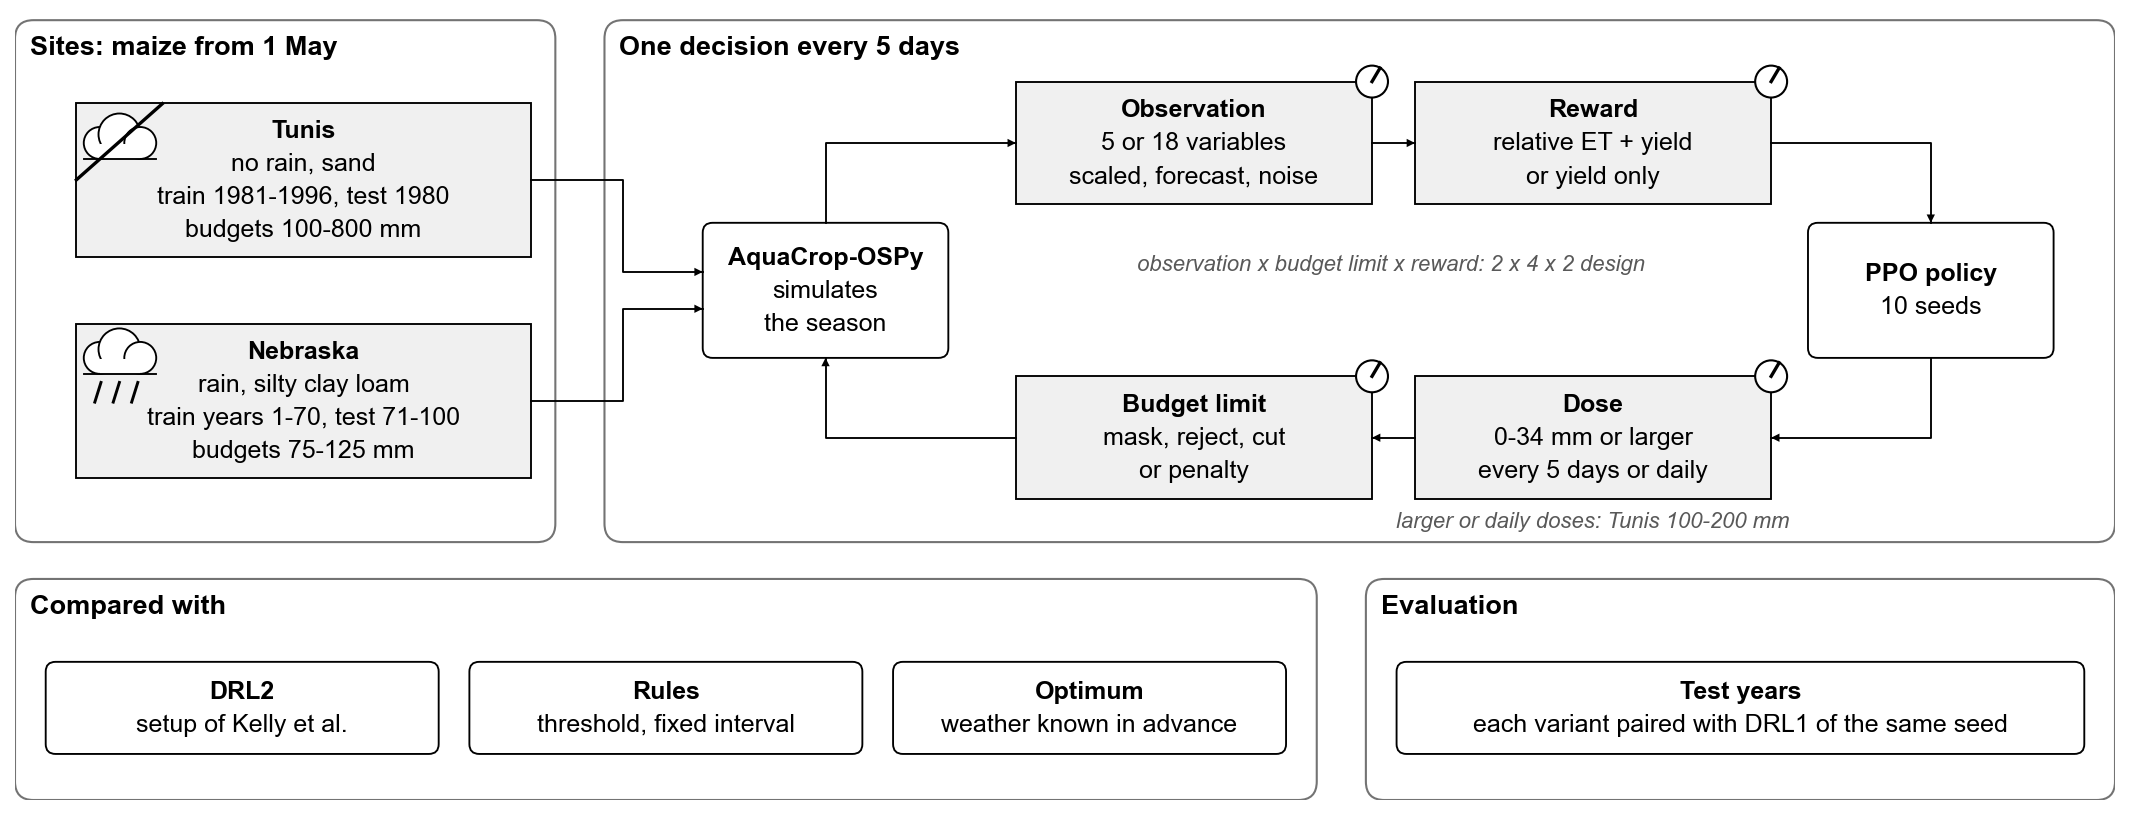
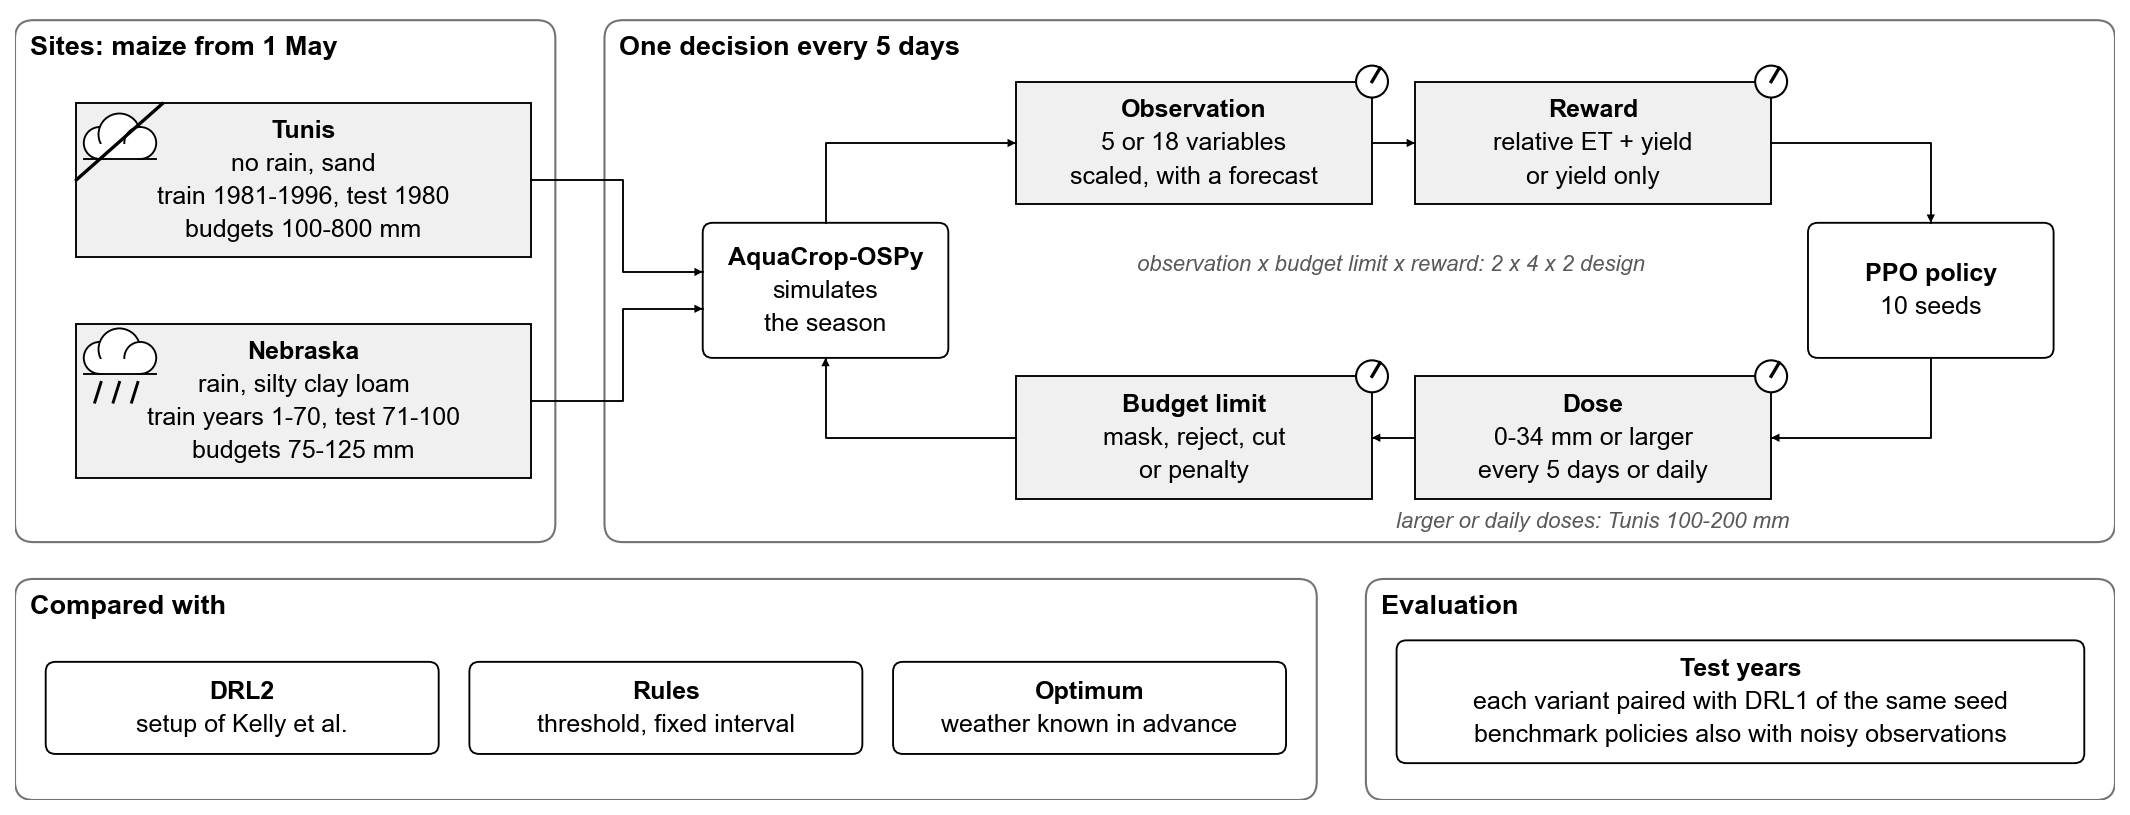
Overview: noisy observations belong to the evaluation, not to the observation choice
The robustness experiment tests trained benchmark policies with noise on two observed variables;
no agent is trained with noise, so it has no dial.

Changed region(s): [[0.6507, 0.7669, 0.9915, 0.9509], [0.4958, 0.184, 0.6197, 0.2454]]

diff --git a/src/ditrl/report/overview.py b/src/ditrl/report/overview.py
@@ -102,7 +102,7 @@ def build(ctx: Context) -> Section:
         env = _box(ax, 6.6, 4.15, 2.0, 1.1, "AquaCrop-OSPy", ["simulates", "the season"])
         agent = _box(ax, 15.6, 4.15, 2.0, 1.1, "PPO policy", ["10 seeds"])
         obs = _knob(ax, 9.6, 5.35, 2.9, 1.0, "Observation",
-                    ["5 or 18 variables", "scaled, forecast, noise"])
+                    ["5 or 18 variables", "scaled, with a forecast"])
         reward = _knob(ax, 12.85, 5.35, 2.9, 1.0, "Reward", ["relative ET + yield", "or yield only"])
         action = _knob(ax, 12.85, 2.95, 2.9, 1.0, "Dose", ["0-34 mm or larger", "every 5 days or daily"])
         budget = _knob(ax, 9.6, 2.95, 2.9, 1.0, "Budget limit", ["mask, reject, cut", "or penalty"])
@@ -123,7 +123,8 @@ def build(ctx: Context) -> Section:
         _box(ax, 5.3, 0.75, 3.2, 0.75, "Rules", ["threshold, fixed interval"])
         _box(ax, 8.75, 0.75, 3.2, 0.75, "Optimum", ["weather known in advance"])
         _region(ax, 11.0, 0, 17.1, 1.8, "Evaluation")
-        _box(ax, 14.05, 0.75, 5.6, 0.75, "Test years", ["each variant paired with DRL1 of the same seed"])
+        _box(ax, 14.05, 0.8, 5.6, 1.0, "Test years", ["each variant paired with DRL1 of the same seed",
+                                                 "benchmark policies also with noisy observations"])
         path = ctx.figures / "overview"
         style.save(fig, path)
     return Section("Experiments", entries=[Entry(

diff --git a/README.md b/README.md
@@ -31,7 +31,7 @@ Setup and details: [docs/usage.md](docs/usage.md).
 <!-- report:start -->
 ## Status
 
-Filled in by `ditrl report` after every batch of results (last on 2026-10-11 18:18).
+Filled in by `ditrl report` after every batch of results (last on 2026-10-11 18:20).
 
 | Stage | Experiment | What it tests | Runs | Results |
 |---|---|---|---|---|
